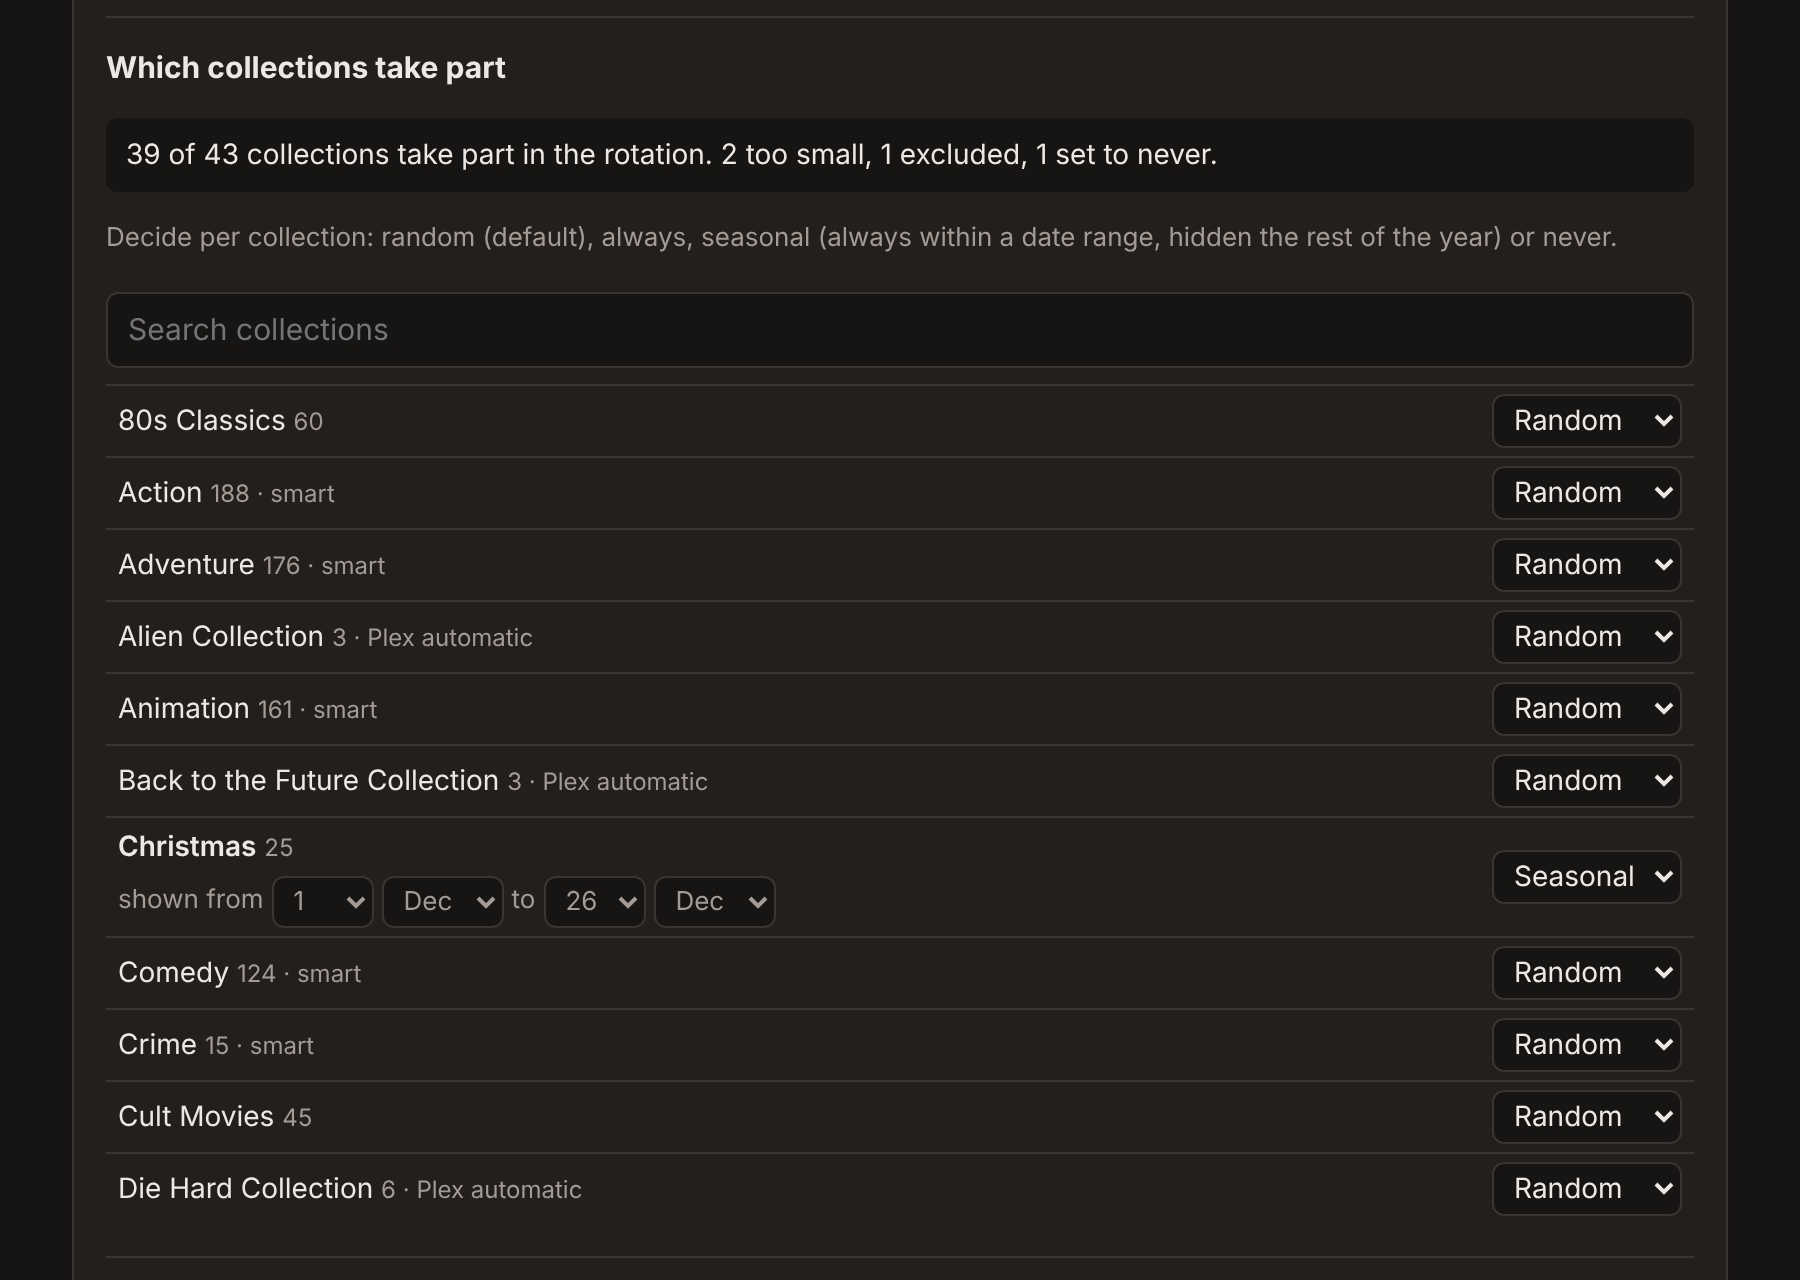
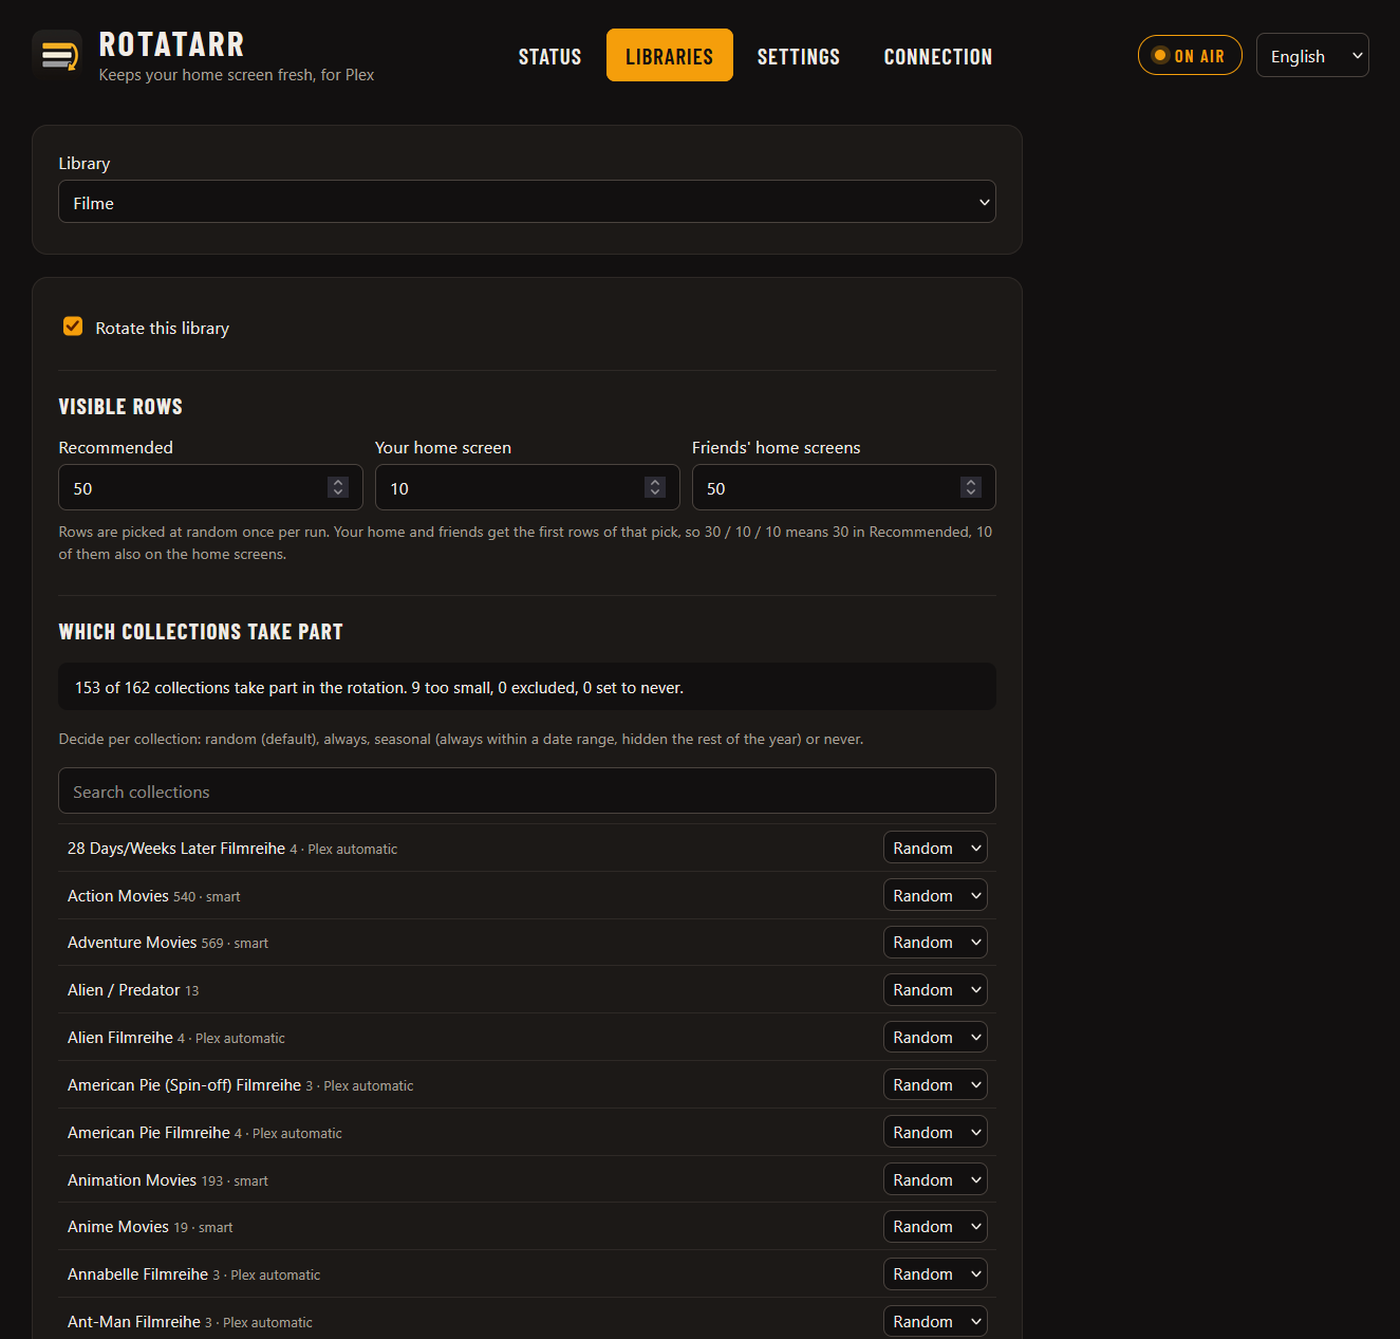
Add room below the status page and update the README
New screenshots and a line about the status page.

diff --git a/rotatarr/static/style.css b/rotatarr/static/style.css
@@ -32,6 +32,7 @@ body {
 }
 
 header, main { max-width: 1200px; margin: 0 auto; padding: 0 20px; }
+main { padding-bottom: 64px; } /* room below the last card, also above a task bar */
 
 header {
   display: flex;

diff --git a/README.md b/README.md
@@ -12,7 +12,8 @@ Plex shows the same collection rows in the same order every day. Rotatarr turns 
 
 - **Rotates rows:** shows a random selection of your collections in *Recommended*, on *your home screen* and on *your friends' home screens*, and hides the rest.
 - **Shuffles:** the row order and the titles inside the rows. Built-in rows such as *Continue Watching* stay on top.
-- **Follows your rules:** always, never or seasonal per collection (e.g. *Halloween* only in October), plus limits and a minimum size. Plex's automatic movie collections are recognised in any language, so you can limit them separately.
+- **Follows your rules:** always, never or seasonal per collection (e.g. *Halloween* only in October), plus limits and a minimum size. Plex's automatic movie collections are recognised in any language, so you can limit them separately, also just for the home screens.
+- **Shows what's on air:** a countdown to the next rotation, the posters of the visible collections and a guide for each home screen.
 - **Tells you when something goes wrong:** optional Discord message for failed runs.
 - **Works with any collections:** Kometa, Plex's automatic movie collections or your own.
 
